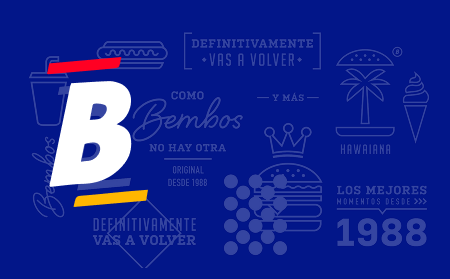
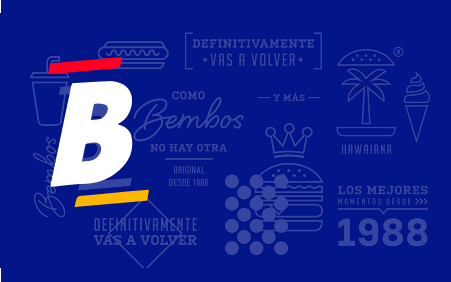
fix: Change menu fonts and backround size

diff --git a/src/gui/Home.java b/src/gui/Home.java
@@ -2,8 +2,10 @@ package gui;
 
 import java.awt.BorderLayout;
 import java.awt.EventQueue;
+import java.awt.GridLayout;
 import java.awt.event.ActionEvent;
 import java.awt.event.ActionListener;
+import java.net.URL;
 
 import javax.swing.ImageIcon;
 import javax.swing.JFrame;
@@ -19,6 +21,8 @@ import javax.swing.JMenuItem;
 import javax.swing.JOptionPane;
 import java.awt.Toolkit;
 import java.awt.Color;
+import javax.swing.SwingConstants;
+import java.awt.Font;
 
 public class Home extends JFrame implements ActionListener {
 
@@ -40,6 +44,8 @@ public class Home extends JFrame implements ActionListener {
 	private JMenuItem mntmAcercaDeTienda;
 	private JLabel lblBackground;
 	private ImageIcon backgroundImage;
+	private URL favicon = getClass().getResource(AppData.sourcePath + AppData.favicon);
+	private Font fontMenu = new Font("Dialog", Font.BOLD, 14);
 
 	/**
 	 * Launch the application.
@@ -61,12 +67,13 @@ public class Home extends JFrame implements ActionListener {
 	 * Create the frame.
 	 */
 	public Home() {		
+		
 		setTitle("Bembos App: Mantenimiento de Menu");
 		setDefaultCloseOperation(JFrame.EXIT_ON_CLOSE);
-		setSize(500, 350);
+		setSize(500, 360);
 		setLocationRelativeTo(null);
 		setIconImage(
-			Toolkit.getDefaultToolkit().getImage(getClass().getResource(AppData.sourcePath + AppData.favicon))
+			Toolkit.getDefaultToolkit().getImage(favicon)
 		);
 		
 		// set menu Items
@@ -78,6 +85,16 @@ public class Home extends JFrame implements ActionListener {
 		mntmConfigurarDescuentos 	= new JMenuItem("Configurar descuentos");
 		mntmConfigurarObsequios 	= new JMenuItem("Configurar obsequios");
 		mntmAcercaDeTienda 			= new JMenuItem("Acerca de Tienda");
+		
+		// set submenu font
+		mntmSalir.setFont(fontMenu);
+		mntmConsultar.setFont(fontMenu);
+		mntmModificar.setFont(fontMenu);
+		mntmListar.setFont(fontMenu);
+		mntmVender.setFont(fontMenu);
+		mntmConfigurarDescuentos.setFont(fontMenu);
+		mntmConfigurarObsequios.setFont(fontMenu);
+		mntmAcercaDeTienda.setFont(fontMenu);
 		
 		// set action events
 		mntmSalir.addActionListener(this);
@@ -91,25 +108,30 @@ public class Home extends JFrame implements ActionListener {
 		
 		// set menus
 		mnArchivo = new JMenu("Archivo");
+		mnArchivo.setFont(fontMenu);
 		mnArchivo.setForeground(AppData.$primaryColor);
 		mnArchivo.add(mntmSalir);		
 		
 		mnMantenimiento = new JMenu("Mantenimiento");
+		mnMantenimiento.setFont(fontMenu);
 		mnMantenimiento.setForeground(AppData.$primaryColor);
 		mnMantenimiento.add(mntmConsultar);
 		mnMantenimiento.add(mntmModificar);		
 		mnMantenimiento.add(mntmListar);
 		
 		mnVentas = new JMenu("Ventas");
+		mnVentas.setFont(fontMenu);
 		mnVentas.setForeground(AppData.$primaryColor);
 		mnVentas.add(mntmVender);
 		
 		mnConfiguracion = new JMenu("Configuracion");
+		mnConfiguracion.setFont(fontMenu);
 		mnConfiguracion.setForeground(AppData.$primaryColor);
 		mnConfiguracion.add(mntmConfigurarDescuentos);		
 		mnConfiguracion.add(mntmConfigurarObsequios);
 		
 		mnAyuda = new JMenu("Ayuda");
+		mnAyuda.setFont(fontMenu);
 		mnAyuda.setForeground(AppData.$primaryColor);
 		mnAyuda.add(mntmAcercaDeTienda);
 		
@@ -126,11 +148,13 @@ public class Home extends JFrame implements ActionListener {
 		// background		
 		backgroundImage = new ImageIcon(getClass().getResource(AppData.sourcePath + "background.png"));
 		lblBackground = new JLabel();
+		lblBackground.setHorizontalAlignment(SwingConstants.CENTER);
 		lblBackground.setIcon(backgroundImage);		
 		
 		contentPane = new JPanel();
 		contentPane.setBackground(AppData.$primaryColor);
-		contentPane.add(lblBackground,BorderLayout.CENTER);
+		contentPane.setLayout(new GridLayout(1, 1, 0, 0));
+		contentPane.add(lblBackground);
 		setContentPane(contentPane);
 	}
 
@@ -141,7 +165,7 @@ public class Home extends JFrame implements ActionListener {
 		
 		MainDialog dialog = new MainDialog();
 		dialog.setIconImage(
-			Toolkit.getDefaultToolkit().getImage(getClass().getResource(AppData.sourcePath + AppData.favicon))
+			Toolkit.getDefaultToolkit().getImage(favicon)
 		);
 		
 		if(source == mntmSalir) {
